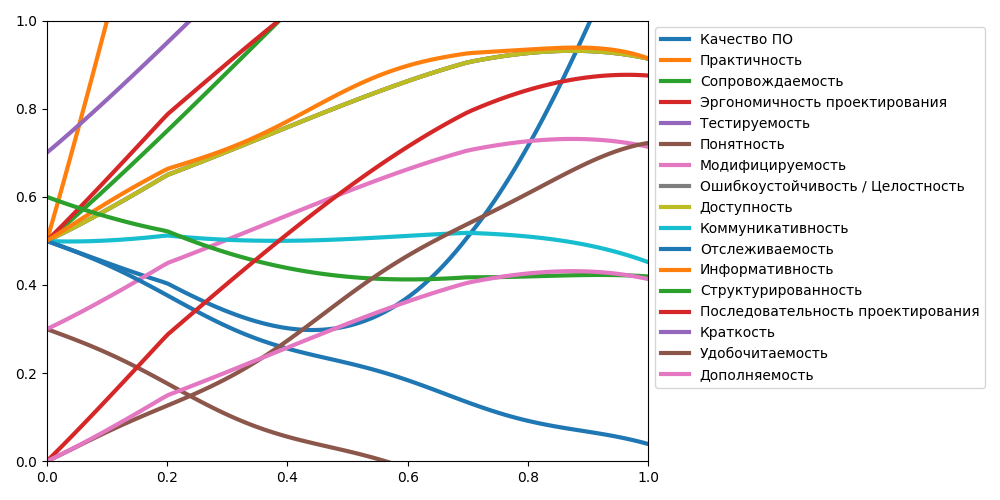
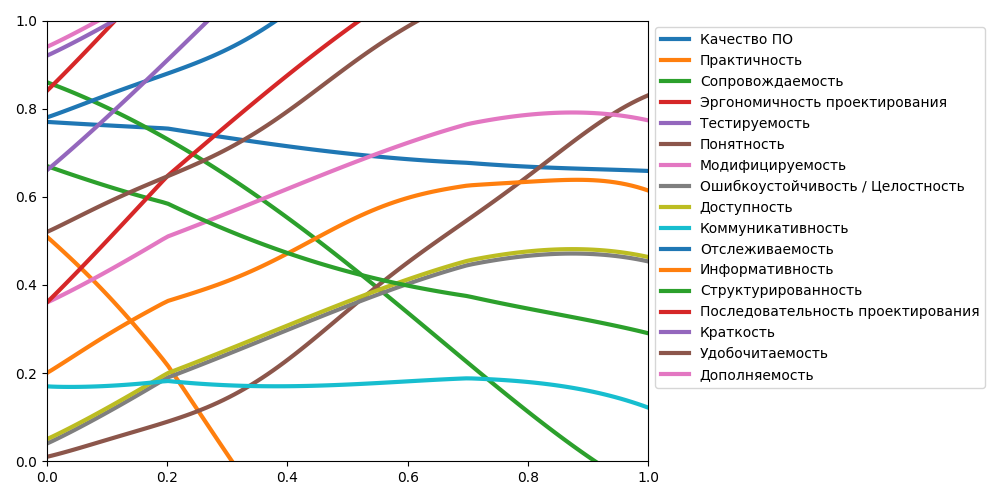
release

diff --git a/view.py b/view.py
@@ -3,6 +3,7 @@ import re
 import service as s
 from PIL import Image
 import io
+import random
 
 sg.theme('Reddit')  # Add a touch of color
 # All the stuff inside your window.
@@ -13,73 +14,84 @@ input_size = (4, 1)
 left_column = [
     [sg.Text('Начальные значения')],
     [sg.HorizontalSeparator()],
-    [sg.Text('Качество', size=text_size), sg.Input('0.0', size=input_size, key='-m1-', enable_events=True)],
-    [sg.Text('Практичность', size=text_size), sg.Input('0.0', size=input_size, key='-m2-', enable_events=True)],
-    [sg.Text('Сопровождаемость', size=text_size), sg.Input('0.0', size=input_size, key='-m3-', enable_events=True)],
+    [sg.Text('Качество', size=text_size), sg.Input("%.2f" % random.random(), size=input_size, key='-m1-', enable_events=True)],
+    [sg.Text('Практичность', size=text_size), sg.Input("%.2f" % random.random(), size=input_size, key='-m2-', enable_events=True)],
+    [sg.Text('Сопровождаемость', size=text_size), sg.Input("%.2f" % random.random(), size=input_size, key='-m3-', enable_events=True)],
     [sg.Text('Эргономичность \nпроектирования', size=double_text_size),
-     sg.Input('0.0', size=input_size, key='-m4-', enable_events=True)],
-    [sg.Text('Тестируемость', size=text_size), sg.Input('0.0', size=input_size, key='-m5-', enable_events=True)],
-    [sg.Text('Понятность', size=text_size), sg.Input('0.0', size=input_size, key='-m6-', enable_events=True)],
-    [sg.Text('Модифицируемость', size=text_size), sg.Input('0.0', size=input_size, key='-m7-', enable_events=True)],
+     sg.Input("%.2f" % random.random(), size=input_size, key='-m4-', enable_events=True)],
+    [sg.Text('Тестируемость', size=text_size), sg.Input("%.2f" % random.random(), size=input_size, key='-m5-', enable_events=True)],
+    [sg.Text('Понятность', size=text_size), sg.Input("%.2f" % random.random(), size=input_size, key='-m6-', enable_events=True)],
+    [sg.Text('Модифицируемость', size=text_size), sg.Input("%.2f" % random.random(), size=input_size, key='-m7-', enable_events=True)],
     [sg.Text('Ошибкоустойчивость /\nЦелостность', size=double_text_size),
-     sg.Input('0.0', size=input_size, key='-m8-', enable_events=True)],
+     sg.Input("%.2f" % random.random(), size=input_size, key='-m8-', enable_events=True)],
     [sg.Text('Последовательность \nпроектирования', size=double_text_size),
-     sg.Input('0.0', size=input_size, key='-m9-', enable_events=True)],
-    [sg.Text('Отслеживаемость', size=text_size), sg.Input('0.0', size=input_size, key='-m10-', enable_events=True)],
+     sg.Input("%.2f" % random.random(), size=input_size, key='-m9-', enable_events=True)],
+    [sg.Text('Отслеживаемость', size=text_size), sg.Input("%.2f" % random.random(), size=input_size, key='-m10-', enable_events=True)],
     # [sg.Text('Эффективность \nустройства', size=double_text_size), sg.Input(size=input_size)],
-    [sg.Text('Доступность', size=text_size), sg.Input('0.0', size=input_size, key='-m11-', enable_events=True)],
-    [sg.Text('Коммуникативность', size=text_size), sg.Input('0.0', size=input_size, key='-m12-', enable_events=True)],
-    [sg.Text('Информативность', size=text_size), sg.Input('0.0', size=input_size, key='-m13-', enable_events=True)],
-    [sg.Text('Структурированность', size=text_size), sg.Input('0.0', size=input_size, key='-m14-', enable_events=True)],
-    [sg.Text('Краткость', size=text_size), sg.Input('0.0', size=input_size, key='-m15-', enable_events=True)],
-    [sg.Text('Удобочитаемость', size=text_size), sg.Input('0.0', size=input_size, key='-m16-', enable_events=True)],
-    [sg.Text('Дополняемость', size=text_size), sg.Input('0.0', size=input_size, key='-m17-', enable_events=True)],
+    [sg.Text('Доступность', size=text_size), sg.Input("%.2f" % random.random(), size=input_size, key='-m11-', enable_events=True)],
+    [sg.Text('Коммуникативность', size=text_size), sg.Input("%.2f" % random.random(), size=input_size, key='-m12-', enable_events=True)],
+    [sg.Text('Информативность', size=text_size), sg.Input("%.2f" % random.random(), size=input_size, key='-m13-', enable_events=True)],
+    [sg.Text('Структурированность', size=text_size), sg.Input("%.2f" % random.random(), size=input_size, key='-m14-', enable_events=True)],
+    [sg.Text('Краткость', size=text_size), sg.Input("%.2f" % random.random(), size=input_size, key='-m15-', enable_events=True)],
+    [sg.Text('Удобочитаемость', size=text_size), sg.Input("%.2f" % random.random(), size=input_size, key='-m16-', enable_events=True)],
+    [sg.Text('Дополняемость', size=text_size), sg.Input("%.2f" % random.random(), size=input_size, key='-m17-', enable_events=True)],
 ]
 
 right_column = [
     [sg.Text('Уравнения')],
 
-    [sg.Text('F4 =', size=input_size),
-     sg.Input('0.0', size=input_size, key='-f4-a-', enable_events=True),
+    [sg.Text('F', pad=(0, 0)),
+     sg.Combo(values=[i for i in range (1, 122)], default_value=4, key='-f0v-'),
+     sg.Text('= '),
+     sg.Input("%.2f" % random.random(), size=input_size, key='-f0-a-', enable_events=True),
      sg.Text('* x^3 +', pad=(0, 0)),
-     sg.Input('0.0', size=input_size, key='-f4-c-', enable_events=True)
+     sg.Input("%.2f" % random.random(), size=input_size, key='-f0-c-', enable_events=True)
      ],
 
-    [sg.Text('F10 =', size=input_size),
-     sg.Input('0.0', size=input_size, key='-f10-a-', enable_events=True),
+    [sg.Text('F', pad=(0, 0)),
+     sg.Combo(values=[i for i in range (1, 122)], default_value=10, key='-f1v-'),
+     sg.Text('= '),
+     sg.Input("%.2f" % random.random(), size=input_size, key='-f1-a-', enable_events=True),
      sg.Text('* x +', pad=(0, 0)),
-     sg.Input('0.0', size=input_size, key='-f10-c-', enable_events=True)
+     sg.Input("%.2f" % random.random(), size=input_size, key='-f1-c-', enable_events=True)
      ],
 
-    [sg.Text('F37 =', size=input_size),
-     sg.Input('0.0', size=input_size, key='-f37-a-', enable_events=True),
+    [sg.Text('F', pad=(0, 0)),
+     sg.Combo(values=[i for i in range (1, 122)], default_value=37, key='-f2v-'),
+     sg.Text('= '),
+     sg.Input("%.2f" % random.random(), size=input_size, key='-f2-a-', enable_events=True),
      sg.Text('* x +', pad=(0, 0)),
-     sg.Input('0.0',size=input_size, key='-f37-c-', enable_events=True)
+     sg.Input("%.2f" % random.random(), size=input_size, key='-f2-c-', enable_events=True)
      ],
 
-    [sg.Text('F78 =', size=input_size),
-     sg.Input('0.0', size=input_size, key='-f78-a-', enable_events=True),
+    [sg.Text('F', pad=(0, 0)),
+     sg.Combo(values=[i for i in range (1, 122)], default_value=78, key='-f3v-'),
+     sg.Text('= '),
+     sg.Input("%.2f" % random.random(), size=input_size, key='-f3-a-', enable_events=True),
      sg.Text('* x^2 +', pad=(0, 0)),
-     sg.Input('0.0', size=input_size, key='-f78-b-', enable_events=True),
+     sg.Input("%.2f" % random.random(), size=input_size, key='-f3-b-', enable_events=True),
      sg.Text('* x +', pad=(0, 0)),
-     sg.Input('0.0', size=input_size, key='-f78-c-', enable_events=True)
+     sg.Input("%.2f" % random.random(), size=input_size, key='-f3-c-', enable_events=True)
      ],
 
-    [sg.Text('F88 =', size=input_size),
-     sg.Input('0.0', size=input_size, key='-f88-a-', enable_events=True),
+    [sg.Text('F', pad=(0, 0)),
+     sg.Combo(values=[i for i in range (1, 122)], default_value=88, key='-f4v-'),
+     sg.Text('= '),
+     sg.Input("%.2f" % random.random(), size=input_size, key='-f4-a-', enable_events=True),
      sg.Text('* x^2 +', pad=(0, 0)),
-     sg.Input('0.0', size=input_size, key='-f88-b-', enable_events=True),
+     sg.Input("%.2f" % random.random(), size=input_size, key='-f4-b-', enable_events=True),
      sg.Text('* x +', pad=(0, 0)),
-     sg.Input('0.0', size=input_size, key='-f88-c-', enable_events=True)
+     sg.Input("%.2f" % random.random(), size=input_size, key='-f4-c-', enable_events=True)
      ],
 
     [sg.HorizontalSeparator()],
     [sg.Text('Управлние')],
     [sg.HorizontalSeparator()],
-    [sg.Text('Статус', size=text_size), sg.InputText('пусто', size=input_size, disabled=True)],
+    [sg.Text('Статус', size=text_size), sg.InputText('пусто', size=(10, 1), disabled=True, key='-status-')],
     [sg.Button('Вычислить', size=text_size, key='-start-calc-')],
     [sg.Button('График', size=text_size, key='-get-func-')],
-    [sg.Button('Диаграмма', size=text_size, key='-get_diag-'), sg.Input('0.0', size=input_size, key='-diag-time-', enable_events=True)],
+    [sg.Button('Диаграмма', size=text_size, key='-get_diag-'),
+     sg.Input('0.0', size=input_size, key='-diag-time-', enable_events=True)],
     [sg.Button('Возмущения', size=text_size, key='-start-faks-')],
 
 ]
@@ -88,15 +100,11 @@ main_layout = [
     [sg.Column(left_column), sg.VerticalSeparator(), sg.Column(right_column)]
 ]
 
-
-
-
-
 number_keys = ['-m' + str(i) + '-' for i in range(1, 18)]
-number_keys += ['-f4-a-', '-f4-c-', '-f10-a-', '-f10-c-', '-f37-a-', '-f37-c-', '-f78-a-', '-f78-b-', '-f78-c-',
-                '-f88-a-', '-f88-b-', '-f88-c-', '-diag-time-']
+number_keys += ['-f0-a-', '-f0-c-', '-f1-a-', '-f1-c-', '-f2-a-', '-f2-c-', '-f3-a-', '-f3-b-', '-f3-c-',
+                '-f4-a-', '-f4-b-', '-f4-c-', '-diag-time-']
 
-number_input_format = r'^[-+]?[0-9]*[.,]?[0-9]{,2}$'
+number_input_format = r'^[-+]?[0-9]*[.]?[0-9]{,2}$'
 
 
 def check_number_fields(event, values):
@@ -110,7 +118,7 @@ def check_number_fields(event, values):
 
 
 # Create the Window
-window = sg.Window('Window Title', main_layout, margins=(0, 0))
+window = sg.Window('Модель Боема', main_layout, margins=(0, 0))
 # Event Loop to process "events" and get the "values" of the inputs
 # while True:
 fak_active = False
@@ -131,7 +139,12 @@ while True:
 
     if event == '-start-calc-':
         s.chars.init_par(values)
-        res = s.chars.calculate(values)
+
+        try:
+            res = s.chars.calculate(values)
+            window['-status-'].update('готово')
+        except BaseException:
+            window['-status-'].update('нет решений')
 
     if event == '-get-func-':
         if res is not None:
@@ -151,7 +164,7 @@ while True:
             [sg.Image(key='-Diag-', data=bio.getvalue())],
             [sg.Button('Закрыть', key='Exit')],
         ]
-        win_diag = sg.Window("Result", diag_layout)
+        win_diag = sg.Window("Диаграмма", diag_layout)
         while True:
             event_diag, values_diag = win_diag.read()
             if event_diag in (sg.WIN_CLOSED, 'Exit'):
@@ -169,14 +182,13 @@ while True:
             [sg.Image(key='-Funcs-', data=bio.getvalue())],
             [sg.Button('Закрыть', key='Exit')],
         ]
-        win_funcs = sg.Window("Result", funcs_layout)
+        win_funcs = sg.Window("График", funcs_layout)
         while True:
             event_funcs, values_funcs = win_funcs.read()
             if event_funcs in (sg.WIN_CLOSED, 'Exit'):
                 func_active = False
                 win_funcs.close()
                 break
-
 
     if fak_active:
         s.get_faks_image()
@@ -188,7 +200,7 @@ while True:
             [sg.Image(key='-Faks-', data=bio.getvalue())],
             [sg.Button('Закрыть', key='Exit')],
         ]
-        win_fak = sg.Window("Result", fak_layout)
+        win_fak = sg.Window("Возмущения", fak_layout)
         while True:
             event_fak, values_fak = win_fak.read()
             if event_fak in (sg.WIN_CLOSED, 'Exit'):
@@ -198,6 +210,5 @@ while True:
 
     if event in (sg.WIN_CLOSED, 'Exit'):
         break
-
 
 window.close()

diff --git a/service.py b/service.py
@@ -11,6 +11,9 @@ class CharacteristicFromExcel:
             raise ValueError("excel is None")
 
         self.max_m = [1 for i in range(17)]
+        self.min_m = [0.7, 0.75, 0.6, 0.4, 0.75, 0.3, 0.1, 0.7, 0.2, 0.37, 0.46, 0.67, 0.2, 0.1, 0.3, 0.69, 0.53]
+        self.min_m[2] = 0.4
+        self.max_m[0] = 2
         self.res = {}
         self.init_chars = {}
         self.characteristics_labels = [col_name.replace('\n', '') for col_name in kwargs["excel"].columns[1:]]
@@ -71,11 +74,11 @@ class CharacteristicFromExcel:
                 list(map(lambda x: x(t), res_d_fak))))
 
     def init_par(self, init_par):
-        self.func_m['f4'] = lambda t: f4(t, init_par)
-        self.func_m['f10'] = lambda t: f10(t, init_par)
-        self.func_m['f37'] = lambda t: f37(t, init_par)
-        self.func_m['f78'] = lambda t: f78(t, init_par)
-        self.func_m['f88'] = lambda t: f88(t, init_par)
+        self.func_m['f' + str(init_par['-f0v-'])] = lambda t: f0(t, init_par)
+        self.func_m['f' + str(init_par['-f1v-'])] = lambda t: f1(t, init_par)
+        self.func_m['f' + str(init_par['-f2v-'])] = lambda t: f2(t, init_par)
+        self.func_m['f' + str(init_par['-f3v-'])] = lambda t: f3(t, init_par)
+        self.func_m['f' + str(init_par['-f4v-'])] = lambda t: f4(t, init_par)
 
     def calculate(self, init_params):
 
@@ -119,51 +122,60 @@ class CharacteristicFromExcel:
                 break
             res_index = i
         stats = [i[res_index] for i in self.res.values()]
-        make_radar_chart('T=' + str(t), stats, labels)
+        make_radar_chart('T=' + str(t), stats, labels, min_val=self.min_m)
 
 
-
-
-def make_radar_chart(name, stats, attribute_labels, plot_markers=[0, 0.2, 0.4, 0.6, 0.8, 1],
+def make_radar_chart(name, stats, attribute_labels, plot_markers=[0, 0.2, 0.4, 0.6, 0.8, 1], min_val=[],
                      plot_str_markers=["0", "0.2", "0.4", "0.6", "0.8", "1"]):
     labels = np.array(attribute_labels)
 
     angles = np.linspace(0, 2 * np.pi, len(labels), endpoint=False)
     stats = np.concatenate((stats, [stats[0]]))
     angles = np.concatenate((angles, [angles[0]]))
-
-    fig = plt.figure(figsize=(8, 8))
+    # max_st = int(max(stats))
+    # if max_st > 1:
+    #     plot_markers = [i for i in range(0, max_st, max_st / 5)]
+    fig = plt.figure(figsize=(13, 8))
     ax = fig.add_subplot(111, polar=True)
     ax.plot(angles, stats, 'o-', linewidth=2)
     ax.fill(angles, stats, alpha=0.25)
+    legend_labels = ['Критерии на текущий момент времени']
+
+    if min_val != []:
+        min_stats = np.concatenate((min_val, [min_val[0]]))
+        legend_labels.append('Минимальные значения')
+        ax.plot(angles, min_stats, linewidth=2)
+        ax.fill(angles, min_stats, alpha=0.25)
+
     ax.set_thetagrids(angles[:-1] * 180 / np.pi, labels)
     plt.yticks(plot_markers)
     ax.set_title(name)
     ax.grid(True)
-    plt.tight_layout
+    plt.legend(legend_labels, bbox_to_anchor=(0, 0))
+    # fig.tight_layout()
     fig.savefig("diag.png")
 
     return plt.show()
 
 
+def f0(t, k):
+    return float(k['-f0-a-']) * np.array(t) ** 3 + float(k['-f0-c-'])
+
+
+def f1(t, k):
+    return float(k['-f1-a-']) * t + float(k['-f1-c-'])
+
+
+def f2(t, k):
+    return float(k['-f2-a-']) * t + float(k['-f2-c-'])
+
+
+def f3(t, k):
+    return float(k['-f3-a-']) * t ** 2 + float(k['-f3-b-']) * t + float(k['-f3-c-'])
+
+
 def f4(t, k):
-    return float(k['-f4-a-']) * np.array(t) ** 3 + float(k['-f4-c-'])
-
-
-def f10(t, k):
-    return float(k['-f10-a-']) * t + float(k['-f10-c-'])
-
-
-def f37(t, k):
-    return float(k['-f37-a-']) * t + float(k['-f37-c-'])
-
-
-def f78(t, k):
-    return float(k['-f78-a-']) * t ** 2 + float(k['-f78-b-']) * t + float(k['-f78-c-'])
-
-
-def f88(t, k):
-    return float(k['-f88-a-']) * t ** 2 + float(k['-f88-b-']) * t + float(k['-f88-c-'])
+    return float(k['-f4-a-']) * t ** 2 + float(k['-f4-b-']) * t + float(k['-f4-c-'])
 
 
 def fak1(t):

diff --git a/test.py b/test.py
@@ -1,0 +1,28 @@
+import matplotlib.pyplot as plt
+import numpy as np
+
+labels = ['Siege', 'Initiation', 'Crowd_control', 'Wave_clear', 'Objective_damage', 'asd', 'dddd']
+
+
+def make_radar_chart(name, stats, attribute_labels=labels, plot_markers=[0, 0.2, 0.4, 0.6, 0.8, 1], plot_str_markers=["0", "0.2", "0.4", "0.6", "0.8", "1"]):
+    labels = np.array(attribute_labels)
+
+    angles = np.linspace(0, 2 * np.pi, len(labels), endpoint=False)
+    stats = np.concatenate((stats, [stats[0]]))
+    angles = np.concatenate((angles, [angles[0]]))
+
+    fig = plt.figure()
+    ax = fig.add_subplot(111, polar=True)
+    ax.plot(angles, stats, 'o-', linewidth=2)
+    ax.fill(angles, stats, alpha=0.25)
+    ax.set_thetagrids(angles[:-1] * 180 / np.pi, labels)
+    plt.yticks(plot_markers)
+    ax.set_title(name)
+    ax.grid(True)
+
+    fig.savefig("%s.png" % name)
+
+    return plt.show()
+
+
+make_radar_chart("Agni", [0.2, 0.7, 0.5, 0.15, 0.9, 0.3, 1])  # example
